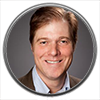
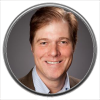
Updated to display image

diff --git a/overlay2.php b/overlay2.php
@@ -62,10 +62,14 @@ list($width, $height, $type, $attr) = getimagesize($file2);
 imagecopy($image, $overlay, 0, 0, 0, 0, $width, $height);
 imagedestroy($overlay);
 
+//filename to save badge to
+$save_file = '/badge.png';
+
 // Output the results
 echo "Thank you for using EasyBadge Creator!";
 header('Content-type: image/png');
-imagepng($image, 'badge6.png');
+imagepng($image, 'badge.png');
+echo '</br><div style="margin-left: 5%;"><img src="' . $save_file . '"/></div>';
 imagedestroy($image);
 
 ?>
